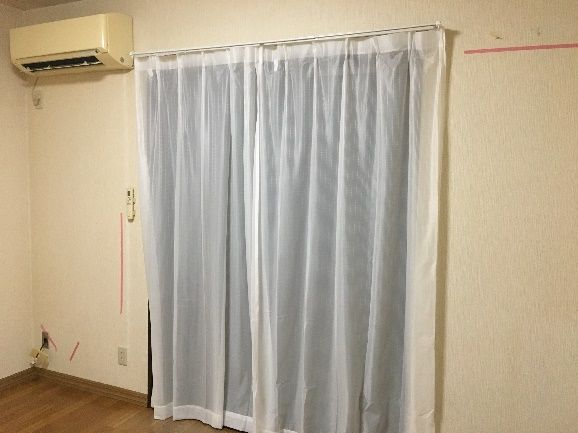
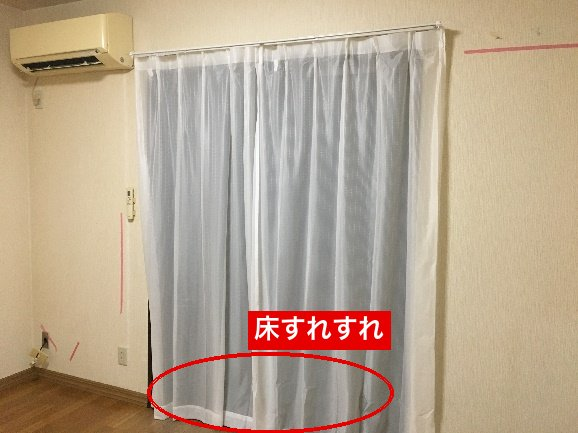
仕様書: 8点に表記変更・ヘッダ簡素化・文言調整・レース画像改善
- タイトル「9点」→「8点セット」(項目数に一致)。
- 発注/施工/対象エリアのメタ欄を削除。
- 共通事項に「在庫表を基に太田にて在庫管理」を追記。
- ①100均NG・季節交換の記載を削除(部材は太田準備のため)。②おすすめ銘柄を削除。
- ⑤レース: 理想画像の床(裾)部分に赤○「床すれすれ」を追記、失敗例画像を明るく補正。

Changed region(s): [[0.2803, 0.6905, 0.6851, 0.8707], [0.2491, 0.8707, 0.6851, 1.0]]

diff --git a/shiyo_kurume.html b/shiyo_kurume.html
@@ -4,7 +4,7 @@
 <meta charset="UTF-8">
 <meta name="viewport" content="width=device-width, initial-scale=1.0, maximum-scale=1.0, user-scalable=no">
 <meta name="apple-mobile-web-app-capable" content="yes">
-<title>9点セット 施工仕様書</title>
+<title>8点セット 施工仕様書</title>
 <link rel="preconnect" href="https://fonts.googleapis.com">
 <link href="https://fonts.googleapis.com/css2?family=Noto+Sans+JP:wght@400;500;700;800&display=swap" rel="stylesheet">
 <style>
@@ -66,19 +66,13 @@
 <div class="page">
 
 <div class="head">
-  <h1>9点セット 施工仕様書</h1>
-</div>
-
-<div class="meta">
-  <div class="cell"><span class="lbl">発注</span><span class="val">株式会社プライズムン　太田 圭一</span></div>
-  <div class="cell"><span class="lbl">施工</span><span class="val">リプラル　本村 様</span></div>
-  <div class="cell"><span class="lbl">対象エリア</span><span class="val">久留米エリア</span></div>
+  <h1>8点セット 施工仕様書</h1>
 </div>
 
 <div class="common">
   <div class="ch">◆ 共通事項</div>
   <ul>
-    <li><b>部材・備品の支給</b>：使用する部材・備品は<b>当社（久留米倉庫：プライマリー合川B棟101号室）にて準備・支給</b>します。買い出しは不要です。不足時は事前にご連絡ください。</li>
+    <li><b>部材・備品の支給</b>：使用する部材・備品は<b>当社（久留米倉庫：プライマリー合川B棟101号室）にて準備・支給</b>します。買い出しは不要です。在庫表を基に太田にて在庫管理しますが、不足が見込まれる際は事前にご連絡ください。</li>
     <li><b>対象部屋</b>：内装状況管理アプリ（内装表）に記載の各部屋。部屋ごとに指示します。</li>
     <li><b>施工報告</b>：各項目とも<b>施工前・施工後の写真</b>を撮影し、内装アプリ／LINEにてご報告ください。</li>
   </ul>
@@ -87,9 +81,8 @@
 <div class="item">
   <div class="item-h"><span class="no">1</span><span class="ttl">スリッパ・玄関マット 設置</span><span class="tag">設置</span></div>
   <div class="item-b">
-    <div class="row"><div class="k">スリッパ</div><div class="v">玄関に<b>2組</b>（2DK以上の物件は3組）設置。<span class="note">100均のスリッパはNG（安っぽさを避ける）。</span></div></div>
+    <div class="row"><div class="k">スリッパ</div><div class="v">玄関に<b>2組</b>（2DK以上の物件は3組）設置。</div></div>
     <div class="row"><div class="k">玄関マット</div><div class="v"><b>剥がせる両面テープ</b>で固定し、ずれないようにする。</div></div>
-    <div class="row"><div class="k">季節交換</div><div class="v">4〜9月は夏用／10〜3月は冬用に交換。</div></div>
     <div class="photos">
       <div class="ph"><img src="spec_img/slipper_mat.jpg"><div class="cap">玄関の設置例</div></div>
     </div>
@@ -99,10 +92,10 @@
 <div class="item">
   <div class="item-h"><span class="no">2</span><span class="ttl">芳香剤 設置</span><span class="tag">設置</span></div>
   <div class="item-b">
-    <div class="row"><div class="k">仕様</div><div class="v"><b>玄関付近</b>に設置。玄関を開けた瞬間に良い香りがするように。おすすめは消臭力「<b>エアリーブーケ</b>」。</div></div>
+    <div class="row"><div class="k">仕様</div><div class="v"><b>玄関付近</b>に設置。玄関を開けた瞬間に良い香りがするように。</div></div>
     <div class="row"><div class="k">設置ポイント</div><div class="v">ラベルを全て剥がし、<b>なるべく見えない場所</b>に設置。<span class="note">扉の中は香りが弱まるためNG。</span></div></div>
     <div class="photos">
-      <div class="ph"><img src="spec_img/aroma.jpg"><div class="cap">消臭力 エアリーブーケ</div></div>
+      <div class="ph"><img src="spec_img/aroma.jpg"><div class="cap">玄関付近に設置</div></div>
     </div>
   </div>
 </div>
